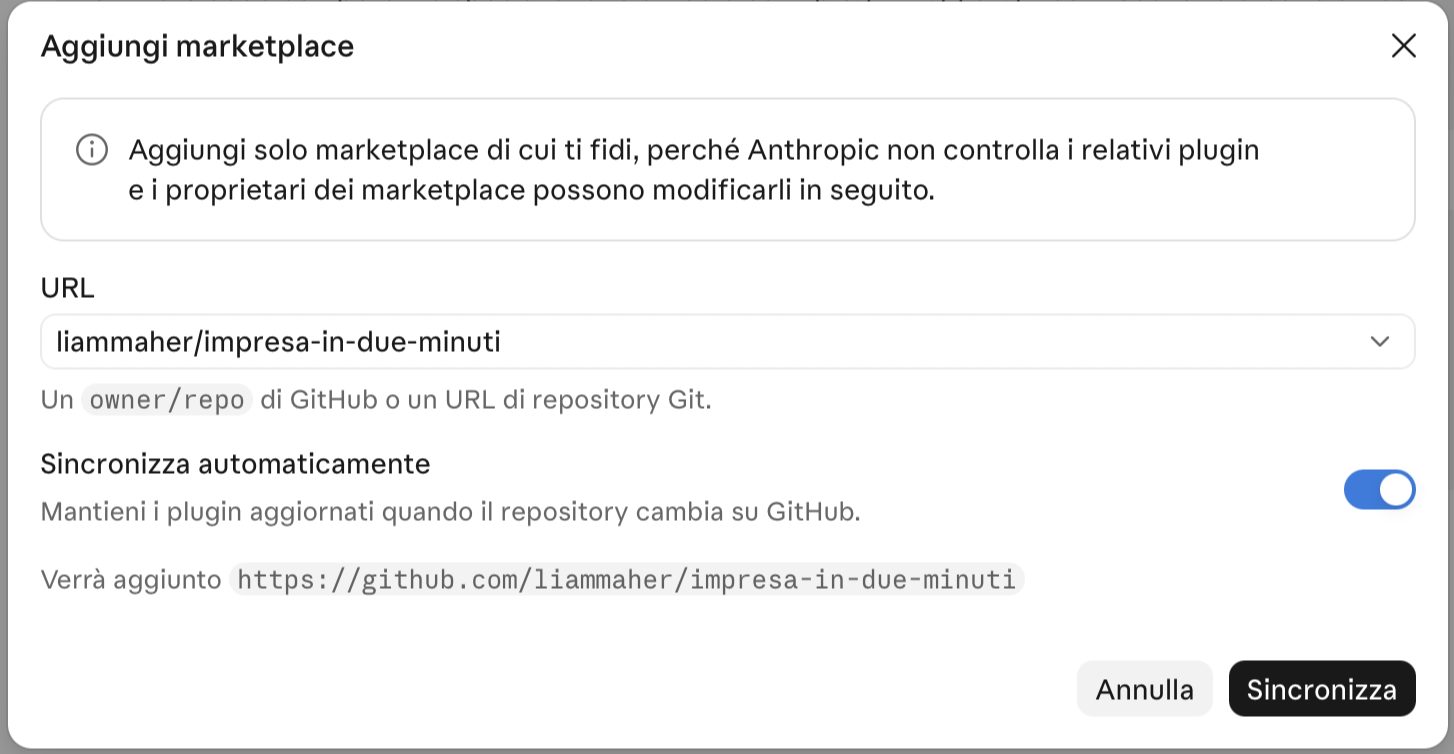
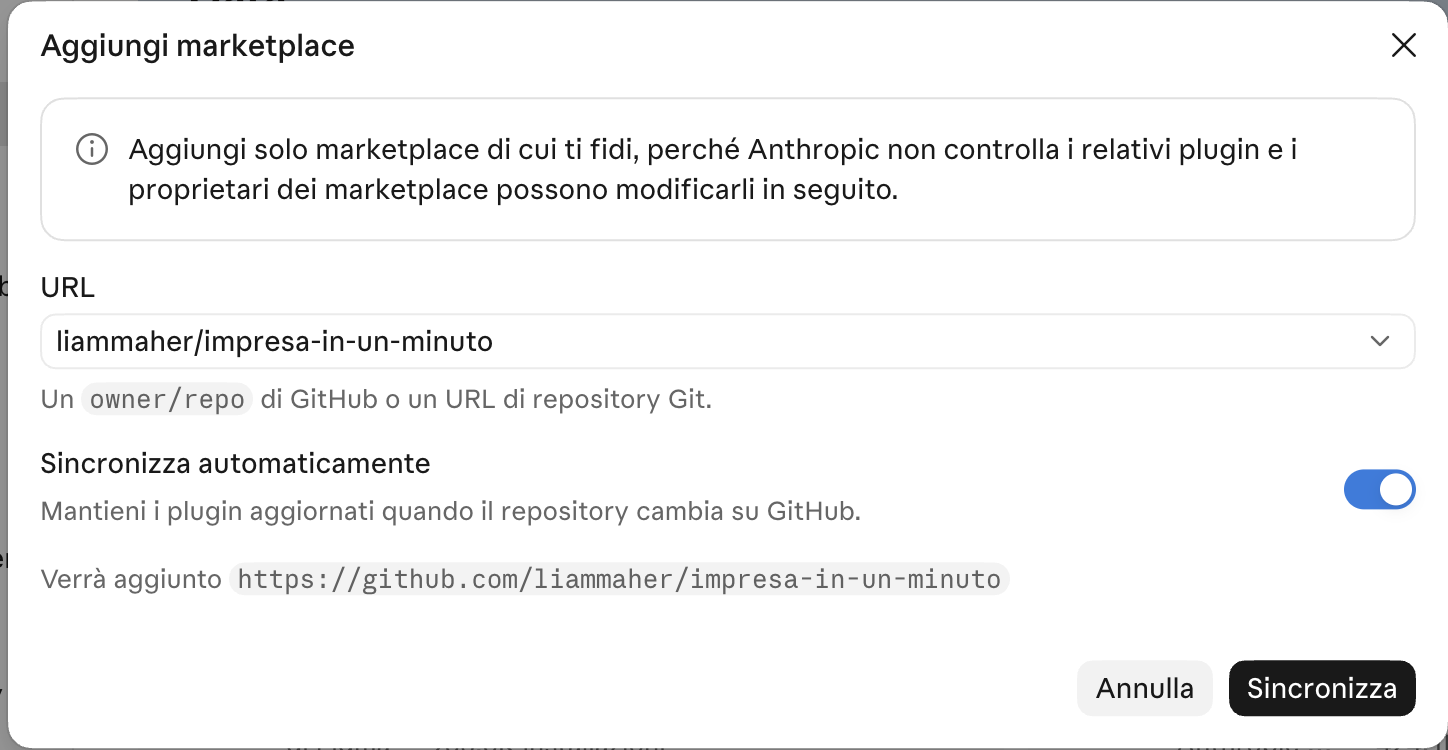
Install page: the «Aggiungi marketplace» shot with liammaher/impresa-in-un-minuto
Retina shot of the dialog with the new repository (1448x750, shown at 724x375);
the ring follows the button.

diff --git a/site/index.html b/site/index.html
@@ -136,9 +136,9 @@
       <div class="copy"><span><code id="marketplace">liammaher/impresa-in-un-minuto</code></span><button type="button" data-copy="marketplace">Copia</button></div>
       <p>Poi clicca <span class="nw"><span class="ui" data-en="Sync">Sincronizza</span>.</span></p>
       <figure class="shot">
-        <img src="img/sincronizza.png" width="727" height="377" loading="lazy"
+        <img src="img/sincronizza.png" width="724" height="375" loading="lazy"
              alt="La finestra «Aggiungi marketplace» con liammaher/impresa-in-un-minuto nel campo URL e il pulsante «Sincronizza» evidenziato.">
-        <span class="ring" style="left:84.5%;top:87.1%;width:12.9%;height:8.4%" aria-hidden="true"></span>
+        <span class="ring" style="left:84.5%;top:87.4%;width:13.2%;height:8.6%" aria-hidden="true"></span>
       </figure>
     </li>
     <li>
